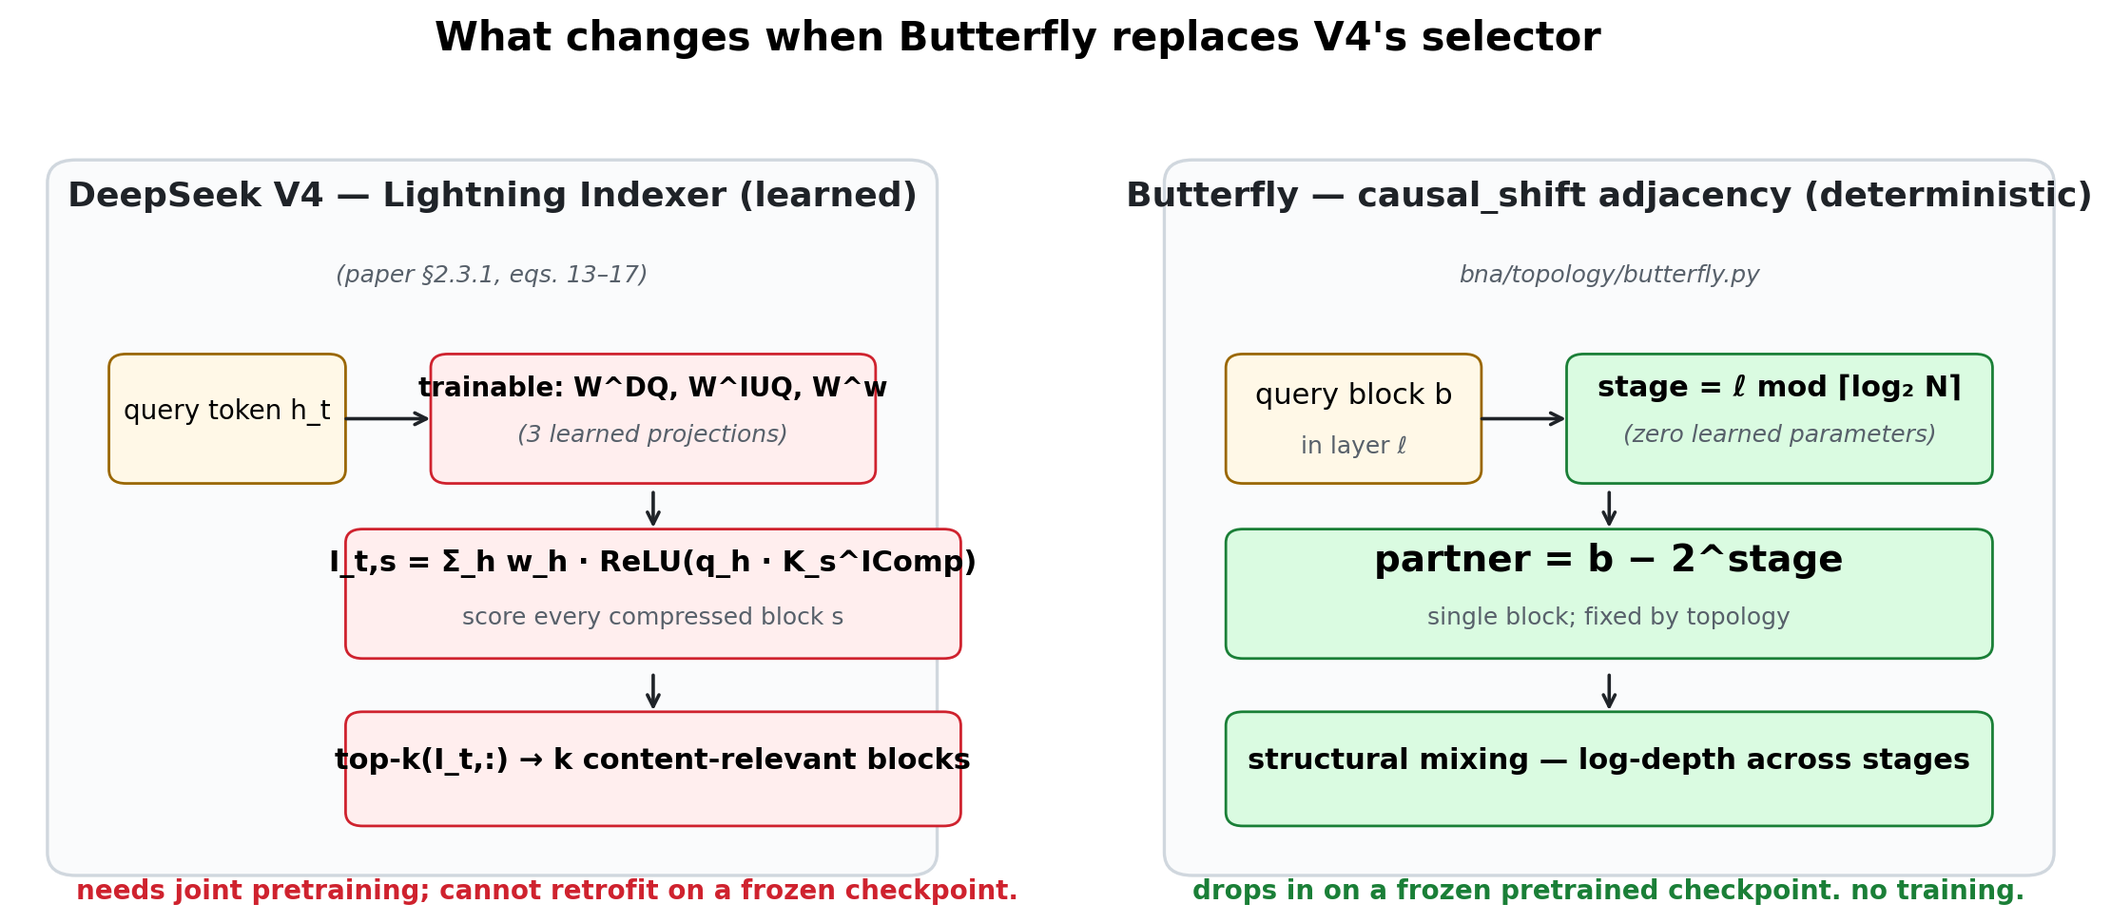
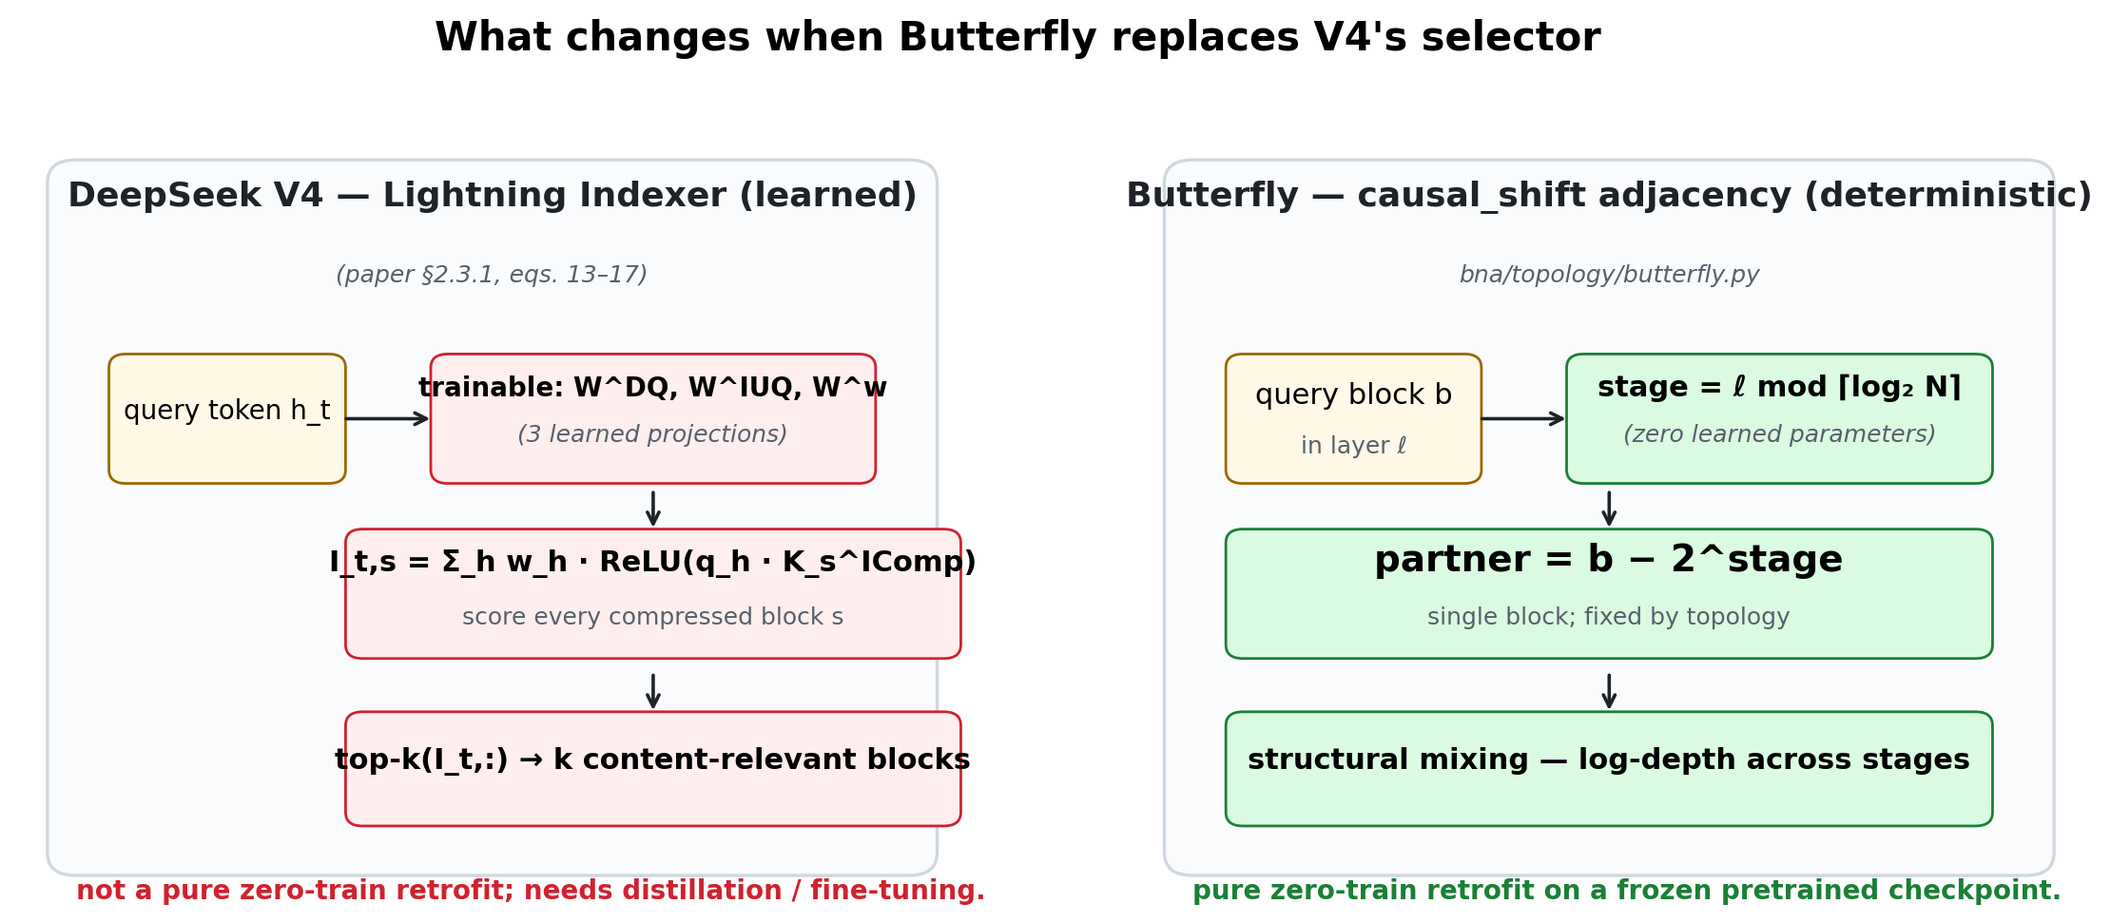
docs: tighten claim language; simplify README; add same-KV ablation plan
Three precision fixes from external review:

1. Topology claim now says reachability through composition, not direct
   coverage. The butterfly graph's direct edges hit power-of-two causal
   offsets only (b-1, b-2, b-4, ...); information from arbitrary earlier
   blocks reaches later ones through binary-decomposition paths over
   ceil(log2 N) stages, because each stage's compressed states carry the
   previous stage's mixed context forward. Updates README.md, the
   topology asset caption, and BUTTERFLY_POSITIONING §C.

2. Soften "cannot retrofit on a frozen checkpoint" to "not a pure zero-
   train retrofit; would need distillation / fine-tuning". V4's selector
   is not impossible to adapt onto a frozen checkpoint -- Butterfly just
   doesn't need the adaptation step. Updates the V4-vs-Butterfly asset
   and BUTTERFLY_POSITIONING §A and §C.

3. Reframe the headline as "deterministic, structure-relevant" vs V4's
   "learned, content-relevant" to make the trade explicit. The defensible
   claim is "Butterfly is a zero-training deterministic substitute for
   the learned compressed-block selector used in V4-shaped compressed
   attention", not "Butterfly is equivalent to V4".

Adds the same-KV-budget topology ablation as the new §H Future work
item #1 (was #2). This is the single most load-bearing test for whether
the topology is doing real work versus "any KV trim helps".

Simplifies README dramatically for skim readers: leads with a 4-row
[…]

Changed region(s): [[0.0311, 0.9578, 0.4973, 0.9887], [0.5595, 0.9578, 0.9946, 0.9887]]

diff --git a/scripts/render_butterfly_assets.py b/scripts/render_butterfly_assets.py
@@ -212,8 +212,8 @@ def render_topology() -> None:
     fig.text(
         0.5, -0.05,
         "Each query block (top) attends to one compressed-block partner (bottom). "
-        f"Across {len(stages)} stages, the union covers every causal predecessor "
-        f"in ⌈log₂ {num_blocks}⌉ = {width} layers.",
+        "Direct edges hit power-of-two offsets only; arbitrary earlier blocks "
+        f"reach later ones through composition over ⌈log₂ {num_blocks}⌉ = {width} stages.",
         ha="center", fontsize=9, color="#57606a", style="italic",
     )
     fig.savefig(ASSETS / "butterfly_topology.png", bbox_inches="tight")
@@ -269,7 +269,7 @@ def render_v4_vs_butterfly() -> None:
             ha="center", fontsize=11, weight="bold")
     ax.annotate("", xy=(6.7, 2.4), xytext=(6.7, 3.0),
                 arrowprops=dict(arrowstyle="->", color=C_TEXT, lw=1.3))
-    ax.text(0.6, 0.0, "needs joint pretraining; cannot retrofit on a frozen checkpoint.",
+    ax.text(0.6, 0.0, "not a pure zero-train retrofit; needs distillation / fine-tuning.",
             ha="left", fontsize=10, color="#cf222e", weight="bold")
 
     # right: Butterfly
@@ -317,7 +317,7 @@ def render_v4_vs_butterfly() -> None:
             ha="center", fontsize=11, weight="bold")
     ax.annotate("", xy=(5.0, 2.4), xytext=(5.0, 3.0),
                 arrowprops=dict(arrowstyle="->", color=C_TEXT, lw=1.3))
-    ax.text(0.6, 0.0, "drops in on a frozen pretrained checkpoint. no training.",
+    ax.text(0.6, 0.0, "pure zero-train retrofit on a frozen pretrained checkpoint.",
             ha="left", fontsize=10, color="#1a7f37", weight="bold")
 
     fig.suptitle(

diff --git a/README.md b/README.md
@@ -1,161 +1,134 @@
 # Butterfly Compressed Attention
 
-A retrofit-ready, no-train, deterministic-routing variant of DeepSeek-V4-style
-compressed attention for long-context inference on **frozen** pretrained
-checkpoints. Validated on Apple Silicon (MLX) for the Qwen 3.5 hybrid family.
+**Long-context inference, 81× less KV cache, no retraining.**
 
-> **What stands today.** On Qwen 3.5 0.8B 4-bit MLX at 256 k context, Butterfly
-> is **21 % faster end-to-end**, uses **27 % of stock peak memory**, and
-> retains an **81 × smaller KV cache** than stock attention — on a frozen
-> pretrained checkpoint, with no training, no learned indexer, and no custom
-> Metal kernel. The win **grows monotonically with context**. The same
-> architecture replicates on Qwen 3.5 4B 4-bit MLX (32 layers, 8 dense
-> full-attention) with the same trend; on the 4B checkpoint at 1 k context,
-> compressed-Butterfly's greedy decode is **bit-for-bit identical** to
-> stock's for 32 tokens.
+Drop-in sparse attention for *frozen* pretrained checkpoints. Swap the
+full-attention layers, gain monotonically with context, never train a
+thing. Validated on Apple Silicon (MLX) for Qwen 3.5 0.8B and 4B.
 
-The full positioning, V4 vs Butterfly framing, replication recipe, claim
-boundary, and code map live in
-**[docs/BUTTERFLY_POSITIONING.md](docs/BUTTERFLY_POSITIONING.md)**.
+## Headline — Qwen 3.5 0.8B 4-bit MLX
 
-## Headline scoreboard
+| context | e2e ×    | peak ×   | retained KV × |
+|--------:|---------:|---------:|--------------:|
+| 32 k    | 1.06     | **0.51** | **0.040**     |
+| 64 k    | 1.02     | **0.43** | **0.026**     |
+| 128 k   | **0.89** | **0.34** | **0.016**     |
+| 256 k   | **0.79** | **0.27** | **0.012**     |
 
-![Ladder: e2e × peak × KV vs context for Qwen 3.5 0.8B and 4B 4-bit MLX](docs/assets/butterfly_ladder.png)
+Lower is better in every column. By 256 k: **21 % faster, 27 % of stock peak,
+81 × smaller retained KV.** Replicates on the 4B checkpoint with the same
+trend.
 
-Lower is better in all panels. The crossover where compressed Butterfly
-beats stock attention on **every** metric — speed, peak memory, retained KV —
-sits between 64 k and 128 k of context. By 256 k on the 0.8B checkpoint
-the gap is decisive (0.79× e2e, 0.27× peak, 81× smaller KV). The 256 k row
-on 4B is harness-blocked by the bench's O(T²) synthetic-prompt builder, not
-by anything attention is doing.
+![Headline ladder](docs/assets/butterfly_ladder.png)
 
-## What changes when Butterfly replaces V4's selector
+→ Full positioning, V4 vs Butterfly, replication, claim boundary:
+**[`docs/BUTTERFLY_POSITIONING.md`](docs/BUTTERFLY_POSITIONING.md)**.
+
+---
+
+## The one-line idea
+
+V4-style compressed attention picks blocks with a *learned, content-relevant*
+top-k indexer. **Butterfly picks them with a *deterministic, structure-relevant*
+graph: `partner = block − 2^stage`.** Zero learned parameters → drops in on a
+frozen checkpoint.
 
 ![V4 Lightning Indexer vs Butterfly causal_shift adjacency](docs/assets/butterfly_vs_v4.png)
 
-DeepSeek V4 picks compressed-block partners with a *learned* Lightning
-Indexer — three trainable projections plus a ReLU-scored top-k selector
-(paper §2.3.1). Butterfly substitutes a *deterministic* `causal_shift`
-adjacency — one block partner per query block per layer, set by
-`partner = block − 2^stage` — with **zero learned parameters**. That single
-substitution is what makes the architecture drop in on a frozen pretrained
-checkpoint. Everything else (two-pool fixed-buffer cache, multi-stream
-SWA + compressed-block attention, online-softmax merge) is V4-shape,
-deliberately.
-
 ## Topology
 
-![Butterfly causal_shift adjacency across 5 stages of 32 blocks](docs/assets/butterfly_topology.png)
+![causal_shift adjacency across stages](docs/assets/butterfly_topology.png)
 
-Each layer ℓ uses one stage; `stage = ℓ mod ⌈log₂ N⌉`. Across the stages,
-the union covers every causal predecessor at depth ⌈log₂ N⌉. This is the
-classical butterfly-graph mixing property, adapted for a causal language
-model.
+Each layer ℓ uses one stage; `stage = ℓ mod ⌈log₂ N⌉`. Direct edges hit
+power-of-two causal offsets only (b−1, b−2, b−4, …); arbitrary earlier
+blocks **reach** later ones through composition over ⌈log₂ N⌉ stages, since
+each stage's compressed states already carry the previous stage's mixed
+context forward. Reachability through recursive mixing — not direct
+full-prefix coverage.
 
 ## Quality smoke
 
 ![Quality smoke: top-50 overlap and 32-token greedy parity, 0.8B vs 4B](docs/assets/butterfly_quality_card.png)
 
-The 4B-1k bar is the single most important sanity gate in this work: at
-1 k context on a real-size checkpoint, compressed Butterfly produces
-**identically the same 32-token greedy continuation** as stock attention,
-and the top-1 candidate at end-of-prefill agrees. At 4 k and 16 k the
-candidate distributions overlap meaningfully (top-50 32 / 50, 23 / 50)
-and KL is bounded, but greedy decode amplifies any single-token
-disagreement into a fully different sequence; that is expected for
-sparse routing without indexer retraining, not breakage. A real
-quality benchmark (perplexity, retrieval) is the next evidence step
-([§H Future work](docs/BUTTERFLY_POSITIONING.md#h-future-work)).
+**4B at 1 k context: greedy decode is 32/32 identical to stock**, top-1
+agrees. At 4 k / 16 k the candidate distributions overlap (top-50 32 / 50,
+23 / 50), but greedy decode diverges — expected for sparse routing without
+indexer retraining, not breakage. RULER / NIAH is the next evidence step.
 
-## Quick replication
-
-Apple Silicon, MLX. Single Mac. Models are uniform 4-bit MLX checkpoints
-from `mlx-community`.
+## Replicate in one shell
 
 ```bash
-VENV=/Volumes/VIXinSSD/butterfly/.venv-macos-metal/bin/python   # adjust
-HF_CACHE=/Volumes/VIXinSSD/hf_cache                             # adjust
-
+VENV=/path/to/.venv-macos-metal/bin/python
+HF_CACHE=/path/to/hf_cache
 QWEN08B=$HF_CACHE/hub/models--mlx-community--Qwen3.5-0.8B-4bit/snapshots/<HASH>
-QWEN4B=$HF_CACHE/hub/models--mlx-community--Qwen3.5-4B-MLX-4bit/snapshots/<HASH>
 
-# Stock vs Butterfly compressed at 64 k on the 0.8B checkpoint
-$VENV scripts/bench_qwen_consumer_mlx.py --model-path "$QWEN08B" \
-  --hf-home "$HF_CACHE" --hf-hub-cache "$HF_CACHE/hub" --hf-offline \
-  --mode stock --seq-lens 65536 --decode-len 8 --repeats 1 \
-  --chunk-size 384 --kv-step 384 \
-  --skip-multi-turn --skip-quality --stage-timeout-sec 1200 \
-  --out-dir results/qwen08b/stock_64k
-
+# Compressed Butterfly at 64 k — single repeat, decode_len=8.
 $VENV scripts/bench_qwen_consumer_mlx.py --model-path "$QWEN08B" \
   --hf-home "$HF_CACHE" --hf-hub-cache "$HF_CACHE/hub" --hf-offline \
   --mode compressed_butterfly --block-partner-rule causal_shift \
   --compressed-local-window-tokens 64 --query-chunk-size 64 --block-size 128 \
   --butterfly-decode-backend stock \
-  --seq-lens 65536 --decode-len 8 --repeats 1 \
-  --chunk-size 384 --kv-step 384 \
+  --seq-lens 65536 --decode-len 8 --repeats 1 --chunk-size 384 --kv-step 384 \
   --skip-multi-turn --skip-quality --stage-timeout-sec 1200 \
   --out-dir results/qwen08b/comp_64k
 ```
 
-Read the resulting `results.json`:
+Pull numbers out:
 
 ```python
 import json
 d = json.load(open("results/qwen08b/comp_64k/results.json"))["single_turn"][0]
 print(d["e2e_sec"],
-      d["peak_memory_bytes"] / (1024**3),                 # GB
+      d["peak_memory_bytes"] / (1024**3),                  # GB
       d["cache_storage_after_prefill"]["total_bytes"]/1e6) # MB retained KV
 ```
 
-The full ladder script and quality-smoke commands are in
-[BUTTERFLY_POSITIONING §G](docs/BUTTERFLY_POSITIONING.md#g-replicating-these-numbers).
+Full ladder + 4B + quality recipe: see
+[`BUTTERFLY_POSITIONING §G`](docs/BUTTERFLY_POSITIONING.md#g-replicating-these-numbers).
 
 ## Repo map
 
-| Path | What it is |
-|---|---|
-| `bna/topology/butterfly.py` | `causal_shift` partner rule and stage metadata. |
-| `bna/mlx/attention.py` | Multi-stream SWA + compressed-block attention, online-softmax merge. |
-| `bna/mlx/compressed_cache.py` | Two-pool fixed-buffer KV cache (V4 Fig 6 layout). |
-| `bna/integrations/qwen_mlx.py` | Layer swap + dispatch + graph-cache eviction fix. |
-| `scripts/bench_qwen_consumer_mlx.py` | Bench harness used for every number in the doc. |
-| `scripts/quality_smoke.py` | Top-50 / KL / greedy parity. |
-| `scripts/render_butterfly_assets.py` | Re-renders the four PNGs from raw JSON. |
-| `docs/BUTTERFLY_POSITIONING.md` | Public-facing positioning doc — start here. |
-| `docs/COMPRESSED_BUTTERFLY_ATTENTION.md` | Variant claim-boundary + same numbers. |
-| `docs/ARCHITECTURE.md` | Contributor-facing implementation map. |
-| `docs/APPLE_SILICON_SETUP.md` | Apple Silicon bootstrap, MLX venv, model catalog. |
-| `docs/BUTTERFLY_THEOREMS.md` | Topology proof status (paper-side claims). |
-| `results/benchmarks/qwen35_0p8b_mlx/` | Raw JSON + `OVERNIGHT_LOG.md` chronology. |
-| `results/benchmarks/qwen35_4b_mlx/` | 4B replication artifacts. |
-| `results/quality/qwen35_4b/` | 4B quality-smoke JSON. |
+```
+bna/topology/butterfly.py        causal_shift partner rule
+bna/mlx/attention.py             multi-stream SWA + compressed merge
+bna/mlx/compressed_cache.py      two-pool fixed-buffer KV cache
+bna/integrations/qwen_mlx.py     layer swap + graph-cache eviction
+scripts/bench_qwen_consumer_mlx.py    every number in the doc
+scripts/quality_smoke.py              top-50 / KL / greedy parity
+scripts/render_butterfly_assets.py    regenerates the 4 PNGs from JSON
+docs/BUTTERFLY_POSITIONING.md         start here
+docs/COMPRESSED_BUTTERFLY_ATTENTION.md  variant claim boundary
+docs/ARCHITECTURE.md                  contributor-facing map
+docs/APPLE_SILICON_SETUP.md           MLX venv + model catalog
+docs/BUTTERFLY_THEOREMS.md            paper-side proof status
+results/benchmarks/qwen35_0p8b_mlx/   raw JSON + OVERNIGHT_LOG.md
+results/benchmarks/qwen35_4b_mlx/     4B replication artifacts
+results/quality/qwen35_4b/            4B quality-smoke JSON
+```
 
-## Next-up tests
+## Next tests
 
-The natural extensions, in priority order — see
-[§H Future work](docs/BUTTERFLY_POSITIONING.md#h-future-work) for
-context:
-
-1. **RULER / NIAH at 32 k–128 k** to turn "smoke" into "evidence".
-2. **Qwen 3.6 27B 4-bit on a 36 GB-RAM Mac** — the 27 B regime is exactly
-   where the 63 ×–81 × KV reduction starts to matter for whether the model
-   fits at all.
-3. **Streamed prompt-build** in the bench harness to unblock 4B-256 k and
-   either model at 512 k+.
-4. **Learned compressor** to replace mean-pool — closes the §E quality gap.
-5. **Counter-RoPE** on the compressed-stream output (V4 §2.3.3).
-6. **Decode-mode kernel** to extend the wins past prefill.
+1. **NIAH / RULER at 32 k–128 k.** Turn smoke into evidence.
+2. **`stock` vs `local-only` vs `random partner` vs `fixed stride` vs
+   `causal_shift` at the same KV budget.** Proves the topology is doing
+   real work, not "any KV trim helps".
+3. **CUDA validation on a 10 GB RTX 3080.** Memory wins are architectural —
+   they should transfer; speed wins partly aren't.
+4. **Qwen 3.6 27B 4-bit on a 36 GB Mac.** Where 63 ×–81 × KV reduction
+   determines whether the model fits at all.
+5. **Streamed prompt-build** in the bench harness — unblocks 256 k + on 4B.
+6. **Learned compressor / counter-RoPE / decode-mode kernel** — close the
+   remaining V4-vs-Butterfly gaps without breaking the no-train property.
 
 ## Related work
 
-- DeepSeek V4 — [hf.co/deepseek-ai/DeepSeek-V4-Pro](https://huggingface.co/deepseek-ai/DeepSeek-V4-Pro)
-- [BigBird](https://arxiv.org/abs/2007.14062)
-- [Longformer](https://arxiv.org/abs/2004.05150)
-- [Monarch](https://arxiv.org/abs/2204.00595)
-- [FlexPrefill](https://arxiv.org/abs/2502.20766)
-- [NSA](https://arxiv.org/abs/2502.11089)
-- [MoBA](https://arxiv.org/abs/2502.13189)
+DeepSeek V4 ([hf](https://huggingface.co/deepseek-ai/DeepSeek-V4-Pro)) ·
+[BigBird](https://arxiv.org/abs/2007.14062) ·
+[Longformer](https://arxiv.org/abs/2004.05150) ·
+[Monarch](https://arxiv.org/abs/2204.00595) ·
+[FlexPrefill](https://arxiv.org/abs/2502.20766) ·
+[NSA](https://arxiv.org/abs/2502.11089) ·
+[MoBA](https://arxiv.org/abs/2502.13189)
 
 ## License
 

diff --git a/docs/BUTTERFLY_POSITIONING.md b/docs/BUTTERFLY_POSITIONING.md
@@ -19,17 +19,21 @@ checkpoints. Validated on Apple Silicon (MLX) for the Qwen 3.5 hybrid family.
 
 Butterfly Compressed Attention is a sparse-attention runtime that takes the
 DeepSeek-V4 systems shape — two-pool fixed-buffer KV cache, multi-stream
-SWA + compressed-block attention, online-softmax merge — and replaces V4's
-*learned top-k Lightning Indexer* with a *deterministic Butterfly
-`causal_shift` adjacency*. That single substitution removes V4's
-training-dependence: the indexer is a fixed graph baked from
-`(num_blocks, layer_idx)`, not three trainable projections + ReLU scoring
-trained jointly with the model. Because nothing in the routing depends on
-unseen weights, Butterfly drops in on a **frozen** pretrained checkpoint and
-delivers V4's long-context efficiency wins without the V4 pretraining bill.
-Butterfly is not a quality replacement for V4-Pro; the compressor is still
-parameter-free mean-pool, and decode falls back to stock dense attention. It
-is a measured-wins-on-prefill story.
+SWA + compressed-block attention, online-softmax merge — and substitutes
+V4's *learned, content-relevant* Lightning Indexer with a *deterministic,
+structure-relevant* Butterfly `causal_shift` adjacency. The trade is "pick
+the most semantically relevant compressed blocks" → "guaranteed structured
+mixing with zero learned parameters". Because nothing in the routing depends
+on unseen weights, Butterfly is a **pure zero-train retrofit** on a frozen
+pretrained checkpoint and delivers V4's long-context efficiency wins without
+the V4 pretraining bill. (V4's selector is not impossible to retrofit either
+— you could distill or fine-tune one in — Butterfly just doesn't need that
+step.) Butterfly is not a quality replacement for V4-Pro: the compressor is
+still parameter-free mean-pool, decode falls back to stock dense, and the
+selector is structure-relevant rather than content-relevant. It is a
+measured-wins-on-prefill story whose surprising claim is that a deterministic
+topology can stand in for a learned selector well enough to be useful at all
+on a frozen checkpoint.
 
 ---
 
@@ -87,7 +91,7 @@ the lazy MLX graph never accumulates intermediate tensors.
 
 | Component | DeepSeek V4 (paper §2.3, Fig 6) | Butterfly | Consequence |
 |---|---|---|---|
-| **Selector / "indexer"** | Learned Lightning Indexer: 3 trainable projections (W^DQ, W^IUQ, W^w) + ReLU score → top-k over compressed blocks (eqs. 13–17) | Deterministic `causal_shift`: `partner = block_idx - (1 << bit_idx)`, `stage_idx = layer_idx % width`. Fixed adjacency, zero parameters. | V4's quality depends on its trained indexer; you cannot bolt CSA onto a frozen checkpoint without that subsystem trained jointly. Butterfly's adjacency is set once from `(num_blocks, layer_idx)` and works on any frozen Qwen 3.5 checkpoint. |
+| **Selector / "indexer"** | Learned, content-relevant Lightning Indexer: 3 trainable projections (W^DQ, W^IUQ, W^w) + ReLU score → top-k over compressed blocks (eqs. 13–17) | Deterministic, structure-relevant `causal_shift`: `partner = block_idx - (1 << bit_idx)`, `stage_idx = layer_idx % width`. Fixed adjacency, zero parameters. | V4's quality depends on its trained indexer, so dropping V4's CSA onto a frozen checkpoint is not a *pure zero-train* operation — you'd need to distill or fine-tune the indexer in. Butterfly's adjacency is set once from `(num_blocks, layer_idx)` and works as-is on any frozen Qwen 3.5 checkpoint. |
 | **Compressor** | Learned softmax-weighted sum across overlapping 2m windows with positional biases B^a, B^b (eqs. 9–12) | Parameter-free **mean pool** over each block | Real gap. A learned compressor needs training. The mean-pool placeholder gets the cache shape and routing right; quality improvements would come from a learned compressor later. |
 | **SWA branch** | n_win=128 raw tokens added to compressed entries (§2.3.3) | n_win=64 raw tokens, identical structural role | Same idea, smaller window. |
 | **Cache layout** | Pre-allocated state cache (SWA tail) + classical cache (compressed slots), Fig 6 | Same: pre-allocated tail buffer + summary buffer, all `mx.slice_update` | Direct adaptation. |
@@ -104,11 +108,13 @@ sees — and substitutes a fixed graph for a trained network. Everything else
 not "we re-invented V4".
 
 Butterfly's indexer also inherits classical butterfly-graph mixing
-properties: under `causal_shift`, between any two blocks `b_i < b_j`, there
-exists a path of length at most ⌈log₂ num_blocks⌉ across the per-layer
-adjacencies (the staged shift offsets cover all bits of the block index
-difference). V4 makes no such structural-mixing claim about its learned
-top-k.
+properties — but as **reachability through composition**, not direct
+adjacency. Direct edges hit power-of-two causal offsets only (`b−1`,
+`b−2`, `b−4`, …); arbitrary earlier blocks reach later ones through binary
+decomposition over ⌈log₂ num_blocks⌉ stages, because each stage's
+compressed states already carry the previous stage's mixed context forward.
+This is the core butterfly composition property, adapted for causal LMs.
+V4 makes no such structural-mixing claim about its learned top-k.
 
 ---
 
@@ -408,7 +414,27 @@ time).
 
 The next evidence steps, roughly in priority order:
 
-1. **Streamed prompt-build** in the bench harness. Removes the O(T²)
+1. **Same-KV-budget topology ablation.** The single most load-bearing test
+   for the *unique* claim. Compare these five at the same retained-KV
+   budget on RULER / NIAH at 32 k–128 k:
+
+   | Mode | Selector |
+   |---|---|
+   | stock | full attention |
+   | local-only | only the SWA tail; no compressed-block partners |
+   | random-partner | one random causal block per query block per layer |
+   | fixed-stride | `partner = b − stride` (constant across layers) |
+   | causal_shift Butterfly | `partner = b − 2^stage` |
+
+   If `causal_shift` beats random / local / fixed at the same memory, the
+   topology is doing real work — not "any KV trim helps". This is the
+   ablation that turns the result from "cool engineering" into "the
+   topology matters". Without it, all of the wins above are
+   equally consistent with "the model tolerates aggressive KV trimming";
+   with it, we'd have evidence the butterfly composition property is
+   load-bearing.
+
+2. **Streamed prompt-build** in the bench harness. Removes the O(T²)
    tokenization wall that capped 0.8B at 256 k and 4B at 128 k in this run.
    Would let us measure 4B at 256 k and either model at 512 k+. Pure bench
    plumbing — not architecture.
